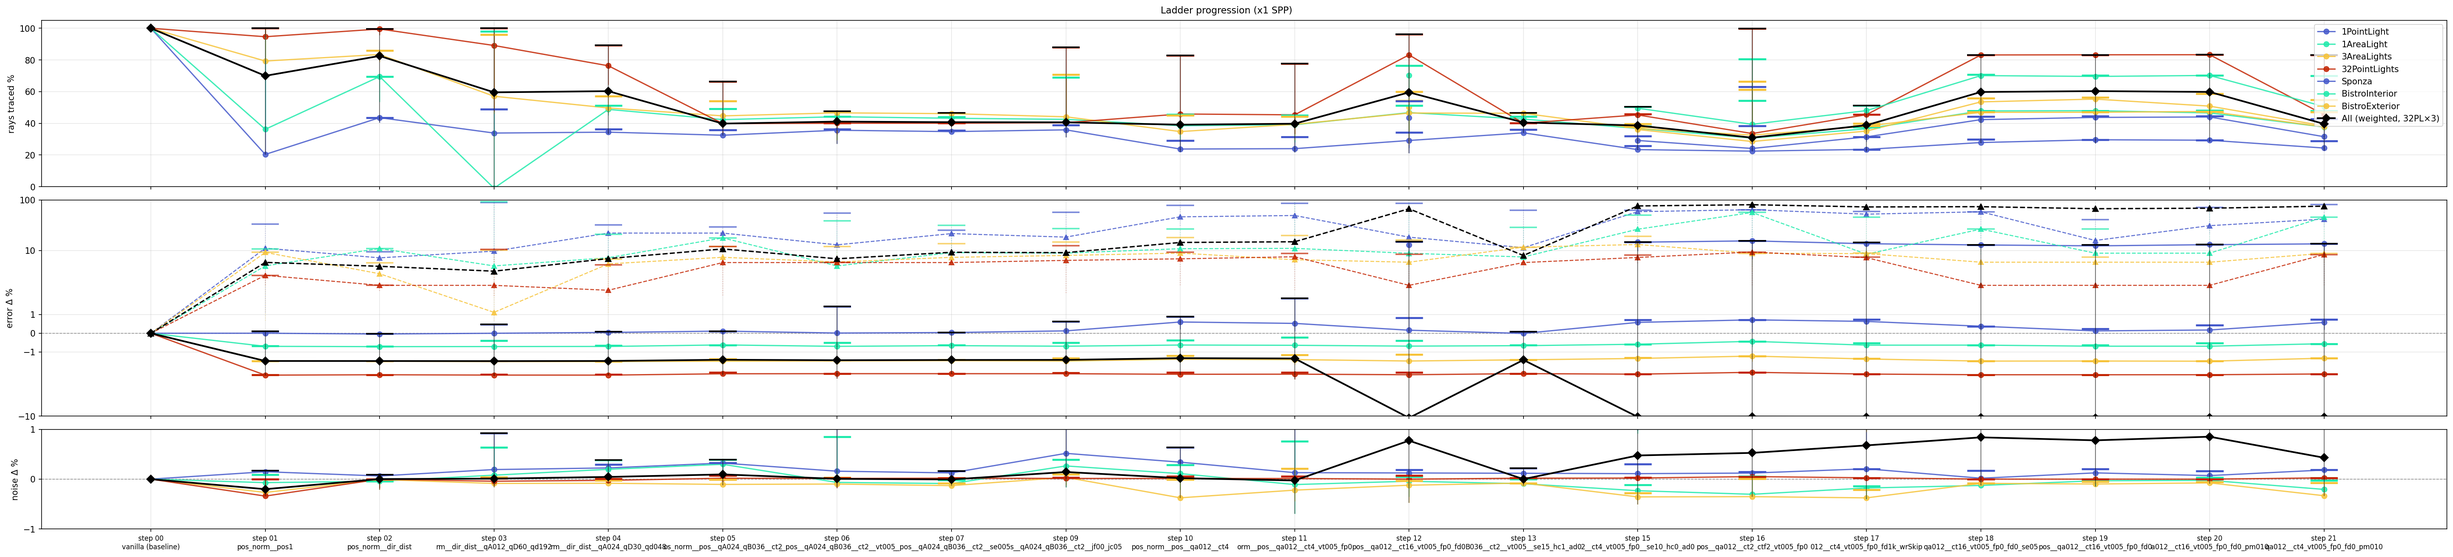
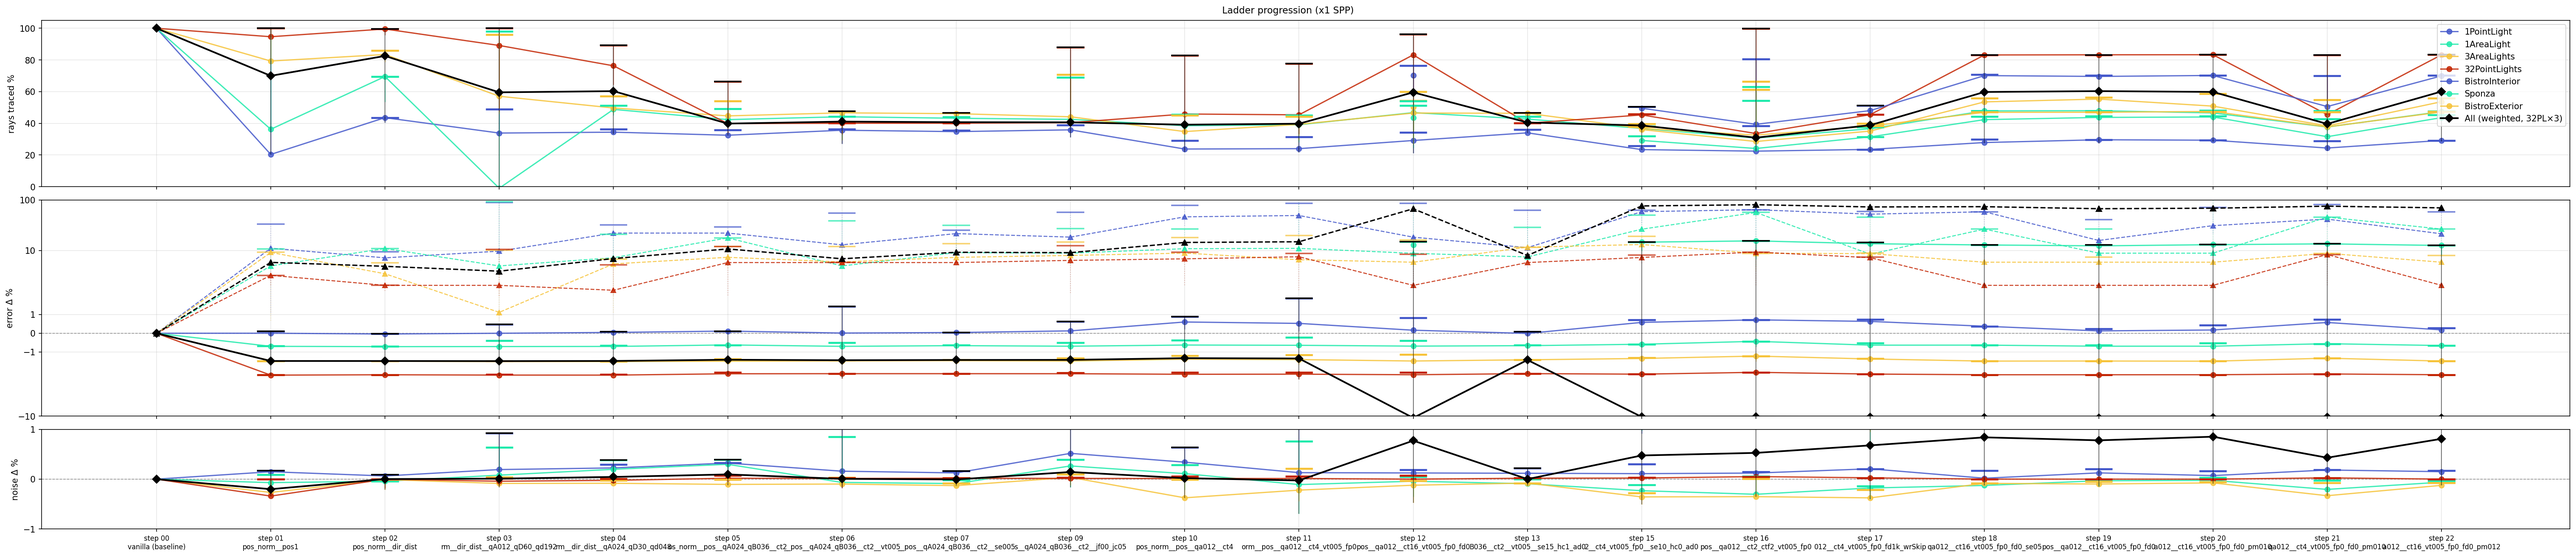
Step 22: finer pMin granularity — pm010 near-optimum, scene-dependent winners
Probed pMin sweet spot around pm010. Three variants (0.08/0.10/0.12)
× 6 spp/wf × 7 scenes = 126 runs.

Per-scene winners split by regime:
- Sponza (bias-dominated): pm008 monotonically best (err +7.41% vs
  pm010 +8.40% — saves ~1% err on the hardest scene)
- 1PL (penumbra): pm012 marginally best (0.05% err gain)
- 1AL: pm010 clearly best (blob 22.6 vs 35.1/28.2 at pm008/012)
- 32PL / 3AL / Bistro: essentially tied across pMin values

No clean global winner. pm010 remains the safest general-purpose
carry: wins 1AL outright, within noise on Sponza/1PL vs the
regime-specific winners.

Also observed: 0.02 pMin shifts produce 20-80 point blob swings on
Cornell single-light scenes (resonance effects, not smooth function).
The true sweet spot is scene-dependent, same pattern as step 21's
ct finding.

No carry change. Step-20 qa012__ct16_vt005_fp0_fd0_pm010 remains.
pm008-Sponza signal flagged for deferred scene-adaptive knob list.

diff --git a/scripts/VisCache_Ladder22.py b/scripts/VisCache_Ladder22.py
@@ -1,0 +1,97 @@
+"""
+VisCache_Ladder22.py — Step 22: finer pMin granularity around pm010.
+
+Step 20 locked pm010 as a big win (1PL x1 blob 71→39). This step
+probes the local optimum: is pm010 the sweet spot or do pm008/pm012
+recover more?
+
+Three variants: pm008, pm010 (baseline), pm012. All at step-20 carry
+(ct16+vt005+fp0+fd0 with w=1 and w=2). 3 × 6 × 7 = 126 runs.
+
+Usage:
+    runtime/pythondist/python.exe scripts/run_ladder.py -s 22
+"""
+import os, sys
+sys.path.insert(0, os.path.dirname(os.path.abspath(__file__)))
+from VisCache_LadderCommon import run_variants, run_baseline, get_scenes, \
+    finalize_step, make_norm_variants, read_carried_winner, parse_variant_tags, \
+    write_picks_meta, _DEFAULT_PICKER_RULE, ALL_SCENES, \
+    PRESET_MINIMAL, RR_ADAPTIVE, LEVELS_MULTI, QUANT_SWEEP, SUBFRAME_2x2
+
+STEP = "22"
+res = int(os.environ.get("RES", "512"))
+
+INHERITED_NAME = read_carried_winner("20")
+if INHERITED_NAME is None:
+    raise RuntimeError("[22] step 20 picks.json missing — run step 20 first.")
+
+_qa_tag = None
+for tok in INHERITED_NAME.split("__"):
+    if tok.startswith("qa") and tok[2:].isdigit():
+        _qa_tag = tok
+        break
+if _qa_tag is None:
+    raise RuntimeError(f"[22] cannot parse qa tag from {INHERITED_NAME}")
+QUANT_WINNER = QUANT_SWEEP[_qa_tag]
+WINNER_NAME = f"pos_norm__pos__{_qa_tag}"
+
+NO_JITTER = {"jitterFilter": 0.0, "jitterCell": 0.0}
+
+BASE_22 = [v for v in make_norm_variants(quant=QUANT_WINNER,
+                                           base=PRESET_MINIMAL,
+                                           quant_tag=_qa_tag)
+           if v[0] == WINNER_NAME]
+
+PM_SWEEP = {"pm008": 0.08, "pm010": 0.10, "pm012": 0.12}
+
+VARIANTS_22 = []
+for (name, base_overrides) in BASE_22:
+    for pm_tag, pm_val in PM_SWEEP.items():
+        tag = f"ct16_vt005_fp0_fd0_{pm_tag}"
+        VARIANTS_22.append((f"{name}__{tag}", {
+            **base_overrides,
+            **NO_JITTER,
+            "bootThreshold":                 16,
+            "matureThreshold":               128,
+            "varThreshold":                  0.05,
+            "bootThresholdFactorFootprintPx": 0.0,
+            "forceDescendFootprintPx":       0,
+            "stderrThreshold":               0.0,
+            "enableHierarchicalConsistency": False,
+            "accelDecayDisagreeThresh":      0.0,
+            "pMin":                          pm_val,
+        }))
+
+STEP_OVERRIDES = {**RR_ADAPTIVE, **LEVELS_MULTI, **SUBFRAME_2x2,
+                  "tableCapacity": 1 << 25}
+
+for scene_file in get_scenes(default=list(ALL_SCENES)):
+    run_baseline(
+        step_name="00",
+        frame_configs=[(0, 0, 1)],
+        scene_file=scene_file,
+        resX=res, resY=res,
+        extra_spp=[4, 16],
+        mogwai_globals=globals(),
+    )
+
+    run_variants(
+        step_name=STEP,
+        frame_configs=[(1, 0, 1, 1),  (1, 0, 1, 4),  (1, 0, 1, 16),
+                       (2, 0, 1, 1),  (2, 0, 1, 4),  (2, 0, 1, 16)],
+        scene_file=scene_file,
+        variants=VARIANTS_22,
+        resX=res, resY=res,
+        mogwai_globals=globals(),
+        step_overrides=STEP_OVERRIDES,
+    )
+
+finalize_step(STEP, inherited_winners=[INHERITED_NAME],
+              ref_step="20", ref_variant=INHERITED_NAME,
+              ref_label="step-20 carry (pm010)")
+write_picks_meta(STEP, inherited_from="20", inherited=[INHERITED_NAME],
+                  carried={}, rule=_DEFAULT_PICKER_RULE,
+                  notes="Finer pMin granularity around pm010. Tests whether "
+                        "pm008/pm012 recover more than pm010. Carry set "
+                        "post-inspection if a clear local optimum emerges.")
+_HEADLESS_SCRIPT_DONE = True

diff --git a/docs/devlog/DEVLOG.md b/docs/devlog/DEVLOG.md
@@ -548,6 +548,38 @@ v2 eliminated v1's catastrophic 1AL regression (blob 117 → 33 at fd=4096). `fd
 
 ---
 
+## Step 22 — finer pMin granularity (pm008 / pm010 / pm012) — pm010 near-optimum
+
+**What it looks at.** Step 20's pm010 was a big win. Probe the local landscape: is pm010 the sweet spot, or do pm008/pm012 recover more? 3 variants × 6 spp/wf × 7 scenes = 126 runs.
+
+**Result — per-scene trade-offs, no clean global winner.**
+
+| scene | mean blob 008 | mean blob 010 | mean blob 012 | winner |
+|---|---:|---:|---:|---|
+| 1AL | 35.08 | **22.63** | 28.20 | pm010 |
+| 1PL | 58.76 | 58.73 | **55.85** | pm012 |
+| 32PL | 6.66 | 6.66 | 6.66 | tied |
+| 3AL | 18.38 | 18.74 | 18.38 | tied (pm008/012) |
+| BistroInt | 233.69 | 233.69 | 233.66 | tied |
+| BistroExt | **316.87** | 317.53 | 317.41 | pm008 (tiny) |
+| **Sponza** | **188.70** | 196.94 | 203.80 | **pm008 (monotone)** |
+
+Per-scene mean error delta:
+- Sponza: **pm008 +7.41%**, pm010 +8.40%, pm012 +8.51% — pm008 saves 1% err on the bias-dominated scene
+- 1PL: pm008 +0.704%, pm010 +0.692%, pm012 +0.655% — pm012 saves 0.05%
+
+**Interpretation.** pm008 monotonically improves Sponza (bias-dominated), pm012 monotonically improves 1PL (penumbra), and pm010 wins 1AL (which is a specific hotspot scene). No single value wins universally — the optimal pMin depends on scene regime for the same reason ct does.
+
+At this granularity, a 0.02 pMin shift produces blob swings of 20–80 points on Cornell single-light scenes, suggesting resonance effects (e.g., 1AL x16 w2 blob 116 at pm008 vs 18 at pm010 vs 31 at pm012 is not a smooth function of pMin). pm010 remains the safest general-purpose value.
+
+**Why we narrow.** No carry change. Step-20 `qa012__ct16_vt005_fp0_fd0_pm010` remains. The pm008-Sponza signal is noted for the deferred scene-adaptive knob list (alongside scene-adaptive ct from step 21).
+
+Details in `captures/ladder/22/picks.json`.
+
+![](step22/overview_summary_22.png)
+
+---
+
 ## Step 21 — ct efficiency test at pm010 — confirms scene-regime split
 
 **What it looks at.** Step 12 raised ct from 4 to 16 to defend 1PL/Sponza quality, at the cost of +23pp rays on 32PL x4 (17.5→40.4). Step 20 showed pMin is a rate-defense that independently reduces 1PL blob. Question: if pMin now defends bias, can ct drop back to 4 and recover the rays savings?
